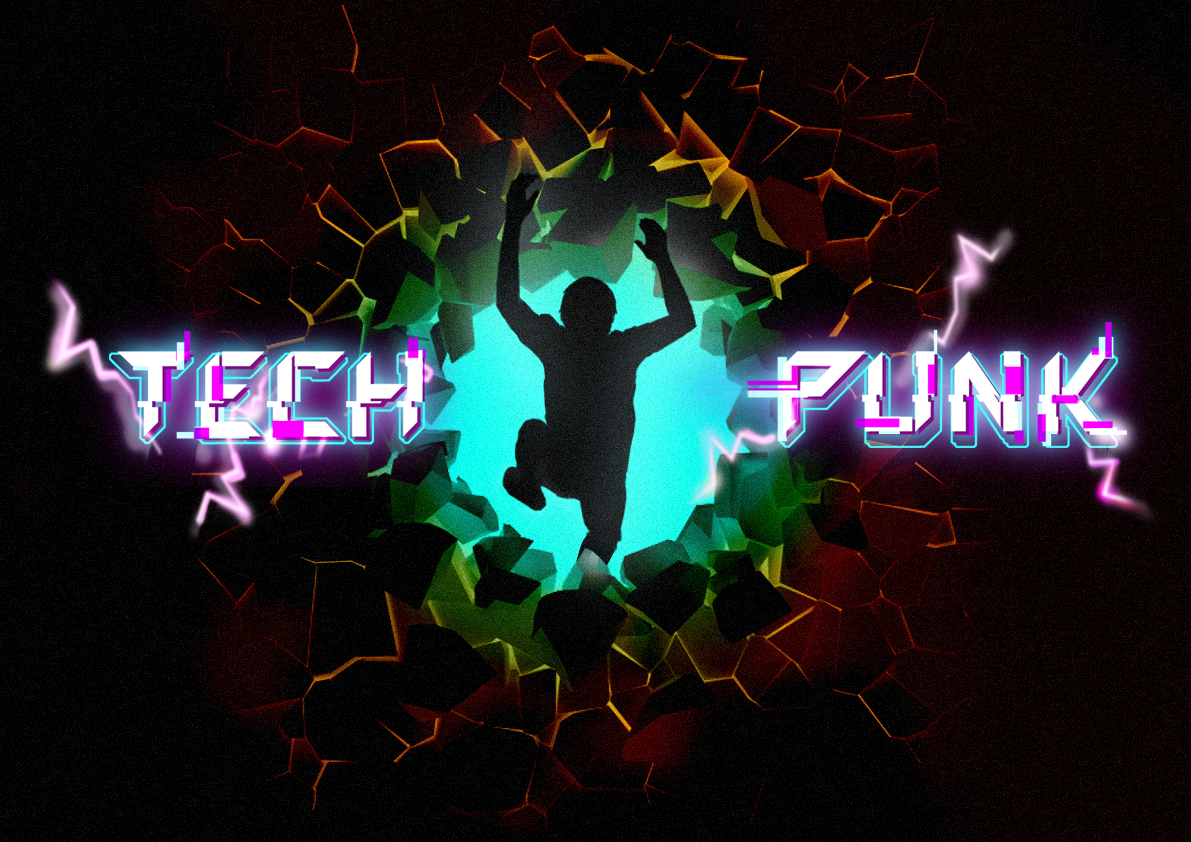
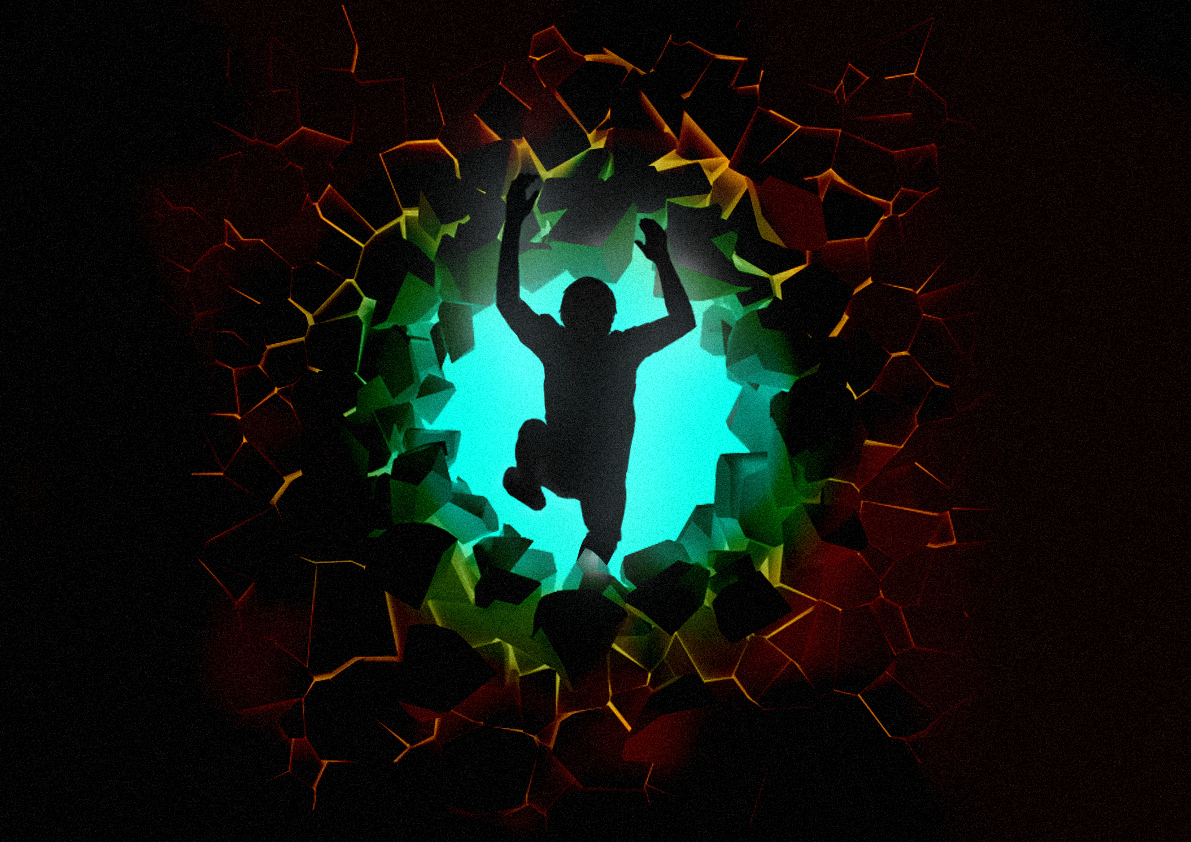
added new mainBG image
1. brightened the background image, moved the background settings to custom.css

2. mobile mainBG set

3. minor change in concept.php and visit.php

Changed region(s): [[0.5592, 0.2779, 0.9631, 0.6176], [0.0311, 0.3397, 0.4039, 0.6485]]

diff --git a/assets/css/custom.css b/assets/css/custom.css
@@ -7,6 +7,7 @@
     text-align: center;
 }
 
+/* hero */
 @font-face {
     font-family: "Cyberpunk";
     src: url(../fonts/Cyberwar-Regular.ttf) format("truetype");
@@ -14,4 +15,22 @@
 #hero h1 {
     font-family: "Cyberpunk";
     letter-spacing: 0.5rem !important;
+}
+
+#hero {
+    background: url("../img/hero-bg.png") top center;
+    background-color: #000;
+    background-size: contain;
+    background-position: center;
+    background-repeat: no-repeat;
+}
+@media screen and (max-width: 768px) {
+    #hero {
+        background: url("../img/hero-bg-mobile.png") top center;
+        background-size: cover;
+    }
+}
+
+#hero:before {
+    background-color: rgba(0, 0, 0, 0.35);
 }

diff --git a/assets/css/style.css b/assets/css/style.css
@@ -355,9 +355,6 @@ h1, h2, h3, h4, h5, h6 {
 #hero {
   width: 100%;
   min-height: 100vh;
-  background: url("../img/hero-bg.png") top center;
-  background-size: cover;
-  background-position: center;
   position: relative;
 }
 #hero:before {

diff --git a/sections/home/concept.php b/sections/home/concept.php
@@ -13,7 +13,7 @@
         </div>
         <div class="row flex align-items-center mt-2"> <!--活動理念-->
             <div class="col-lg-6 order-1 order-lg-2" data-aos="fade-left" data-aos-delay="100"> 
-                <img src="assets/img/hero-bg.png" class="img-fluid" alt=""> 
+                <img src="assets/img/mainBG.png" class="img-fluid" alt=""> 
             </div>
             <div class="col-lg-6 pt-4 pt-lg-0 order-2 order-lg-1 content" data-aos="fade-right" data-aos-delay="100">
                 <h3>活動理念</h3>

diff --git a/sections/home/visit.php b/sections/home/visit.php
@@ -1,5 +1,5 @@
 <style>
-    #visit p {
+    #visit .info p {
         font-size: 1.1rem;
     }
 </style>
@@ -11,7 +11,7 @@
             <p>2022 台師大科技系112級畢業專展</p>
         </div>
         <div class="row mb-5">
-            <div class="col-lg-8">
+            <div class="col-lg-12">
                 <div class="info">
                     <div class="time"> <i class="bi bi-clock"></i>
                         <h4>時間</h4>
